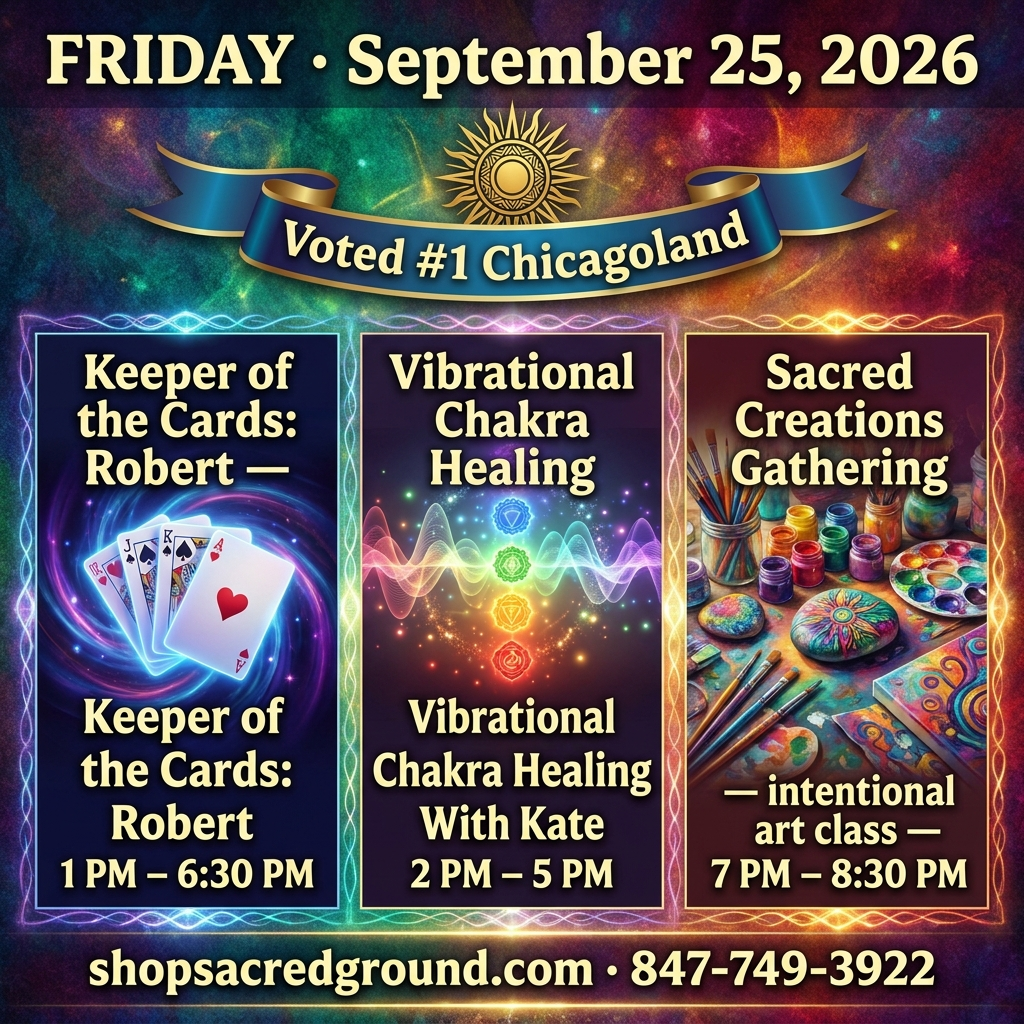
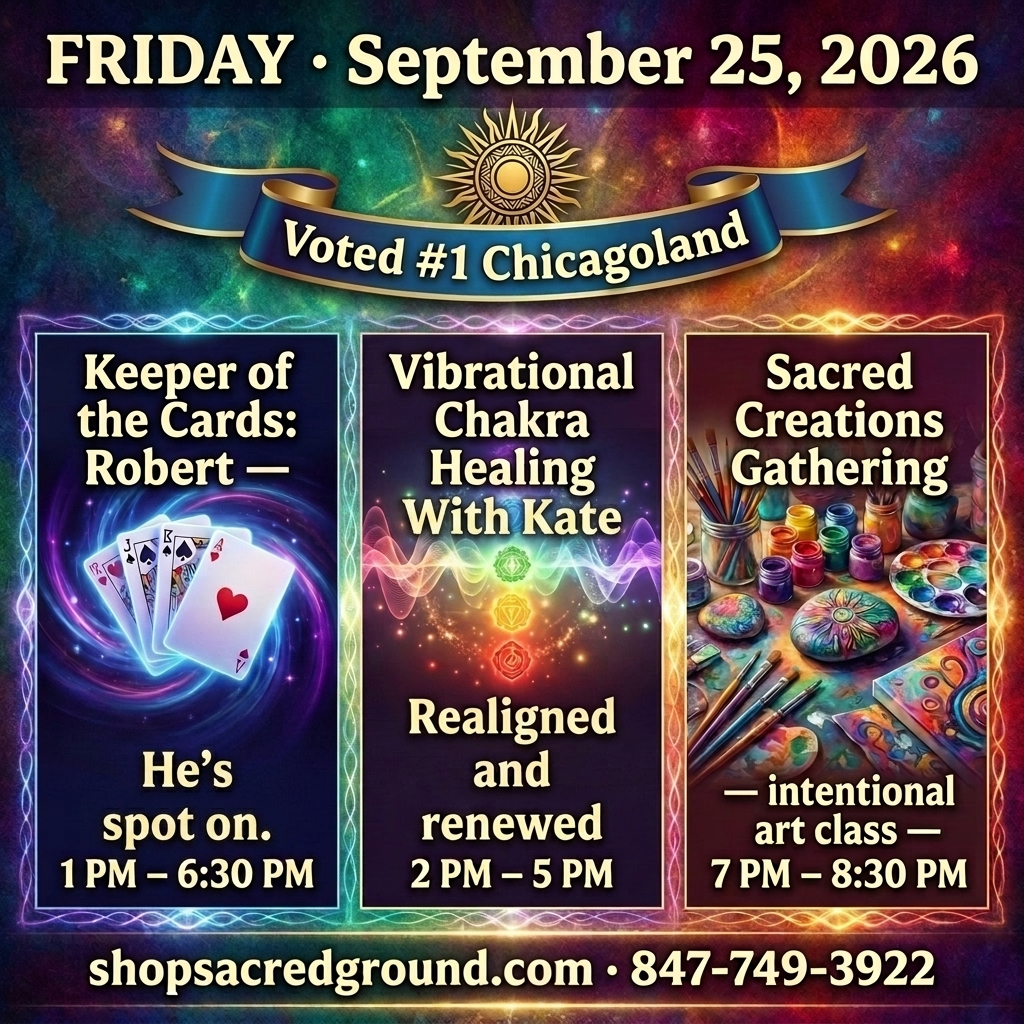
Tighten Sep 25 under-panel copy into benefit lines.
Replace title repeats with He's spot on. / Realigned and renewed / intentional art class; add late-Sep review gallery.

diff --git a/assets/SEPTEMBER-FLYERS/LATE-SEP.html b/assets/SEPTEMBER-FLYERS/LATE-SEP.html
@@ -1,0 +1,21 @@
+<!DOCTYPE html><html><head><meta charset=utf-8><title>Sep 25–30 morning flyers</title>
+<style>
+body{margin:0;font-family:Georgia,serif;background:#1a1512;color:#f7f1e8;padding:28px}
+h1{font-weight:400;margin:0 0 8px}
+p{opacity:.75;margin:0 0 24px}
+.grid{display:grid;grid-template-columns:repeat(auto-fill,minmax(280px,1fr));gap:20px}
+.card{background:#2a221c;border-radius:16px;overflow:hidden;text-decoration:none;color:inherit;border:1px solid #3b3028}
+img{width:100%;aspect-ratio:1;object-fit:cover;display:block}
+.cap{padding:12px 14px;font-size:15px}
+.cap b{display:block;font-size:17px;margin-bottom:4px}
+</style></head><body>
+<h1>September 25–30</h1>
+<p>Late-month morning flyers · click to open full size</p>
+<div class="grid">
+<a class="card" href="2026-09-25.jpg" target="_blank"><img src="2026-09-25.jpg" alt="Sep 25"/><div class="cap"><b>Fri · Sep 25</b>Robert · Kate chakra · Sacred Creations</div></a>
+<a class="card" href="2026-09-26.jpg" target="_blank"><img src="2026-09-26.jpg" alt="Sep 26"/><div class="cap"><b>Sat · Sep 26</b>Melissa · Tina · Lisa Maria · Robert</div></a>
+<a class="card" href="2026-09-27.jpg" target="_blank"><img src="2026-09-27.jpg" alt="Sep 27"/><div class="cap"><b>Sun · Sep 27</b>Mary · Diane · Divine Space</div></a>
+<a class="card" href="2026-09-28.jpg" target="_blank"><img src="2026-09-28.jpg" alt="Sep 28"/><div class="cap"><b>Mon · Sep 28</b>Lisa Maria · Janel</div></a>
+<a class="card" href="2026-09-29.jpg" target="_blank"><img src="2026-09-29.jpg" alt="Sep 29"/><div class="cap"><b>Tue · Sep 29</b>Amber · Tina · Meditation</div></a>
+<a class="card" href="2026-09-30.jpg" target="_blank"><img src="2026-09-30.jpg" alt="Sep 30"/><div class="cap"><b>Wed · Sep 30</b>Frequency Reset</div></a>
+</div></body></html>
